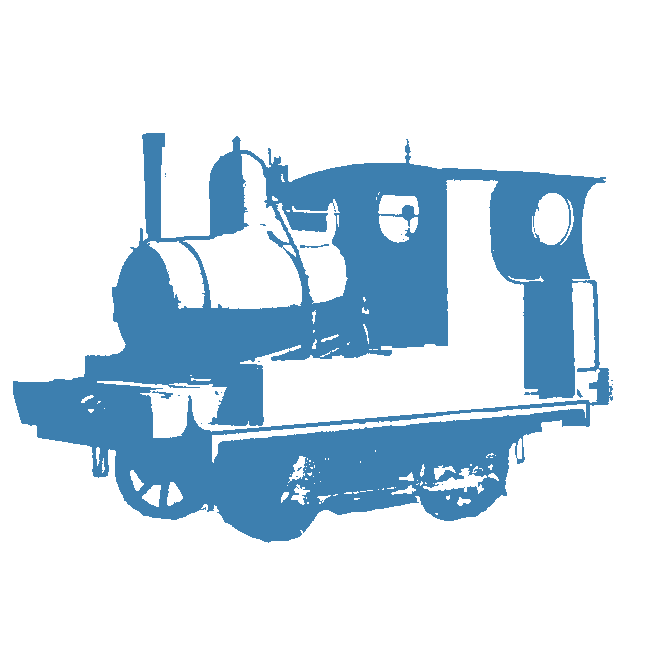
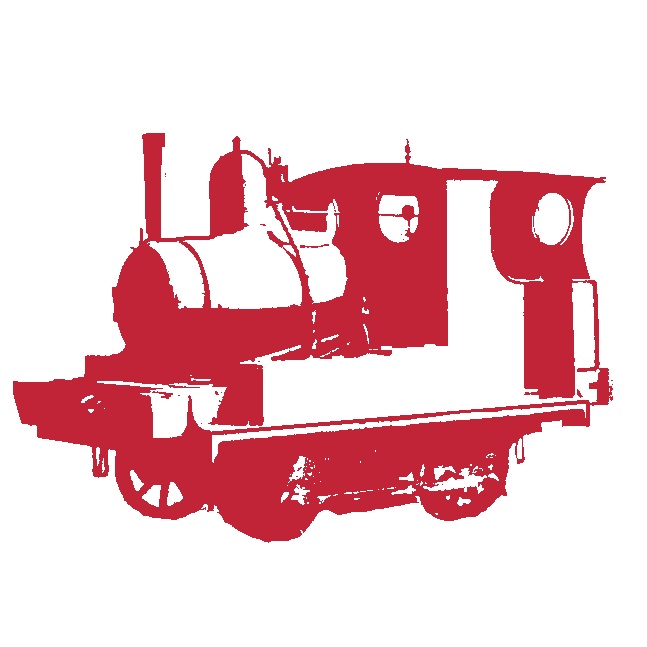
Changed all blue to red (C12437)

Changed region(s): [[0.0, 0.1855, 0.9583, 0.8346]]

diff --git a/res/css/styles_default.css b/res/css/styles_default.css
@@ -19,7 +19,7 @@ body
 	left:0;
 	height:100%;
 	width:100%;
-	background:#3D7FAF;
+	background:#C12437;
 	transition:0.8s;
 	z-index:150;
 }
@@ -54,40 +54,40 @@ body
 	0%
 	{
 		border-top:#FFF 1vh solid;
-		border-left:#3D7FAF 1vh solid;
-		border-bottom:#3D7FAF 1vh solid;
-		border-right:#3D7FAF 1vh solid;	
+		border-left:#C12437 1vh solid;
+		border-bottom:#C12437 1vh solid;
+		border-right:#C12437 1vh solid;	
 	}
 	25%
 	{
-		border-top:#3D7FAF 1vh solid;
+		border-top:#C12437 1vh solid;
 		border-left:#FFF 1vh solid;
-		border-bottom:#3D7FAF 1vh solid;
-		border-right:#3D7FAF 1vh solid;	
+		border-bottom:#C12437 1vh solid;
+		border-right:#C12437 1vh solid;	
 	}
 	
 	50%
 	{
-		border-top:#3D7FAF 1vh solid;
-		border-left:#3D7FAF 1vh solid;
+		border-top:#C12437 1vh solid;
+		border-left:#C12437 1vh solid;
 		border-bottom:#FFF 1vh solid;
-		border-right:#3D7FAF 1vh solid;	
+		border-right:#C12437 1vh solid;	
 	}
 	
 	75%
 	{
-		border-top:#3D7FAF 1vh solid;
-		border-left:#3D7FAF 1vh solid;
-		border-bottom:#3D7FAF 1vh solid;
+		border-top:#C12437 1vh solid;
+		border-left:#C12437 1vh solid;
+		border-bottom:#C12437 1vh solid;
 		border-right:#FFF 1vh solid;	
 	}
 	
 	100%
 	{
 		border-top:#FFF 1vh solid;
-		border-left:#3D7FAF 1vh solid;
-		border-bottom:#3D7FAF 1vh solid;
-		border-right:#3D7FAF 1vh solid;	
+		border-left:#C12437 1vh solid;
+		border-bottom:#C12437 1vh solid;
+		border-right:#C12437 1vh solid;	
 	}
 }
 
@@ -150,7 +150,7 @@ body
 	left:0;
 	width:100%;
 	height:10%;
-	background:#3D7FAF;
+	background:#C12437;
 	z-index:100;
 }
 
@@ -186,7 +186,7 @@ body
 	border:white 0.25vh solid;
 	border-bottom:none;
 	box-sizing: border-box;
-	background-color:#3D7FAF;
+	background-color:#C12437;
 	color:#fff;
 	font-size:1rem;
 	transition:0.1s;
@@ -223,7 +223,7 @@ body
 .break
 {
 	height:5vh;
-	background:#3D7FAF !IMPORTANT;
+	background:#C12437 !IMPORTANT;
 	left:0;
 	width:100%;
 }
@@ -347,7 +347,7 @@ button
 .show-aboutMe
 {
     position: absolute;
-    background: #3d7faf;
+    background: #C12437;
     border-radius: 7vh;
     box-sizing: border-box;
     border: solid 1vh #fff;
@@ -360,7 +360,7 @@ button
 .hide-aboutMe
 {
 	position: absolute;
-    background: #3d7faf;
+    background: #C12437;
     border-radius: 7vh;
     box-sizing: border-box;
     border: solid 1vh #fff;
@@ -389,7 +389,7 @@ button
 #aboutMe div h1, #aboutMe div h2
 {
 	text-align:center;
-	color:#3d7faf;
+	color:#C12437;
 }	
 
 #aboutMe img
@@ -436,7 +436,7 @@ p.footer
     left: 5%;
     height: 30%;
     background: #fff;
-    border: solid 0.5vh #3d7faf;
+    border: solid 0.5vh #C12437;
     border-top-left-radius: 2.5vh;
     border-top-right-radius: 2.5vh;
     transition: 0.2s;
@@ -458,7 +458,7 @@ p.footer
 h3 
 {    
 	text-align: center;
-    color: #3d7faf;
+    color: #C12437;
 }
 
 .show-contact, .show-links

diff --git a/res/css/styles_mobile.css b/res/css/styles_mobile.css
@@ -64,7 +64,7 @@ body
 	left:0;
 	width:100%;
 	height:10%;
-	background:#3D7FAF;
+	background:#C12437;
 }
 
 #bannerText
@@ -98,7 +98,7 @@ body
 	height:100%;
 	border:none;
 	border-top:none;
-	background-color:#3D7FAF;
+	background-color:#C12437;
 	color:rgba(0,0,0,0);
 	font-size:0rem;
 }
@@ -111,8 +111,8 @@ body
     width: 100%;
     top: 27.5%;
     left: 0;
-    border-top: #3D7FAF 4vh solid;
-    border-bottom: #3d7faf 4vh solid;
+    border-top: #C12437 4vh solid;
+    border-bottom: #C12437 4vh solid;
 }
 #content
 {
@@ -228,7 +228,7 @@ p#myLatest
     bottom: 0;
     left: 0;
     width: 100%;
-    background: #3d7faf;
+    background: #C12437;
     height: 5%;
     z-index: 0;
 }
@@ -260,7 +260,7 @@ button#force-mobile {
     left: 5%;
     height: 30%;
     background: #fff;
-    border: solid 0.5vh #3d7faf;
+    border: solid 0.5vh #C12437;
     border-top-left-radius: 2.5vh;
     border-top-right-radius: 2.5vh;
     transition: 0.2s;
@@ -282,7 +282,7 @@ button#force-mobile {
 h3 
 {    
 	text-align: center;
-    color: #3d7faf;
+    color: #C12437;
 }
 
 .show-contact, .show-links

diff --git a/res/css/styles_desktop.css b/res/css/styles_desktop.css
@@ -67,7 +67,7 @@ body
 	left:0;
 	width:100%;
 	height:10%;
-	background:#3D7FAF;
+	background:#C12437;
 }
 
 #bannerText
@@ -102,7 +102,7 @@ body
 	border:white 0.25vh solid;
 	border-bottom:none;
 	box-sizing: border-box;
-	background-color:#3D7FAF;
+	background-color:#C12437;
 	color:#fff;
 	font-size:2.1vh;
 }
@@ -248,7 +248,7 @@ button#force-mobile
     z-index: 108;
     height: 5%;
     color: #fff;
-    background: #3d7faf;
+    background: #C12437;
     border: none;
 	border-bottom-right-radius:1vh;
 	border-bottom-left-radius:1vh;

diff --git a/res/css/styles.css b/res/css/styles.css
@@ -54,7 +54,7 @@
 	left:0;
 	width:100%;
 	height:10%;
-	background:#3D7FAF;
+	background:#C12437;
 }
 
 #bannerText
@@ -88,7 +88,7 @@
 	border:white 0.25vh solid;
 	border-bottom:none;
 	box-sizing: border-box;
-	background-color:#3D7FAF;
+	background-color:#C12437;
 	color:#fff;
 	font-size:1.7vw;
 }

diff --git a/res/js/tpf_convert_script.js b/res/js/tpf_convert_script.js
@@ -930,7 +930,7 @@ function makeNewMdl()
 			'{' + '\n' +
 			'materials = { ' + newMdlChild.materials[1][0] + ', },' + '\n' +
 			'mesh = ' + newMdlChild.materials[0][0] + ',' + '\n' +
-			'transf = ' +
+			'transf = ' + '\n';
 			
 			
 		}
